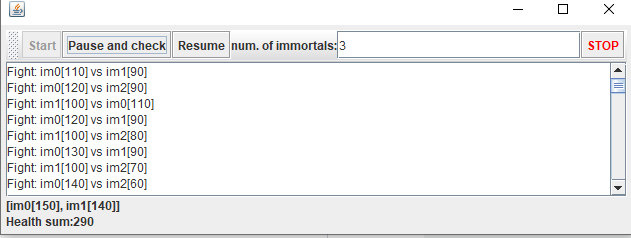
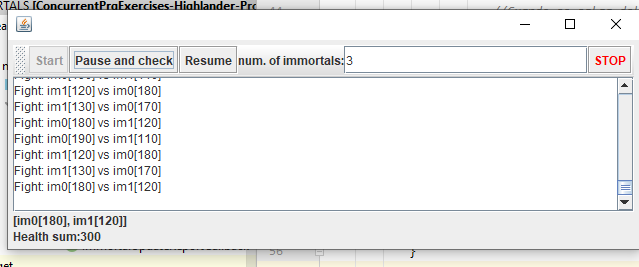
Arreglando inconvenientes

Changed region(s): [[0.0, 0.0, 1.0, 1.0]]

diff --git a/src/main/java/edu/eci/arsw/highlandersim/Immortal.java b/src/main/java/edu/eci/arsw/highlandersim/Immortal.java
@@ -2,12 +2,13 @@ package edu.eci.arsw.highlandersim;
 
 import java.util.List;
 import java.util.Random;
+import java.util.concurrent.atomic.AtomicInteger;
 
 public class Immortal extends Thread {
 
     private ImmortalUpdateReportCallback updateCallback=null;
     
-    private int health;
+    private AtomicInteger health;
     
     private int defaultDamageValue;
 
@@ -16,25 +17,45 @@ public class Immortal extends Thread {
     private final String name;
 
     private final Random r = new Random(System.currentTimeMillis());
-    private boolean pause,active;
+    private boolean pause,active,alive;
     public static final Object tieLock = new Object();
     public static Object pantalla = ControlFrame.pantalla;
-    public static Object desempate = new Object();
+    private static Object desempate = new Object();
 
     public Immortal(String name, List<Immortal> immortalsPopulation, int health, int defaultDamageValue, ImmortalUpdateReportCallback ucb) {
         super(name);
         this.updateCallback=ucb;
         this.name = name;
         this.immortalsPopulation = immortalsPopulation;
-        this.health = health;
+        this.health = new AtomicInteger(health);
         this.defaultDamageValue=defaultDamageValue;
         this.pause=false;
         this.active=true;
+        this.alive=true;
     }
 
     public void run() {
 
         while (active) {
+            try {
+                synchronized (pantalla){
+                    while(pause){
+                        pantalla.wait();
+                        //Cuando se salga del wait, significa que desde el ControlFrame se ejecutó notifyAll y se despertaron los inmortales
+                        renaudarInmortal();
+
+                    }
+                }
+                Thread.sleep(10);
+            } catch (InterruptedException e) {
+                e.printStackTrace();
+            }
+            if (getHealth()<=0){
+                morir();
+                immortalsPopulation.remove(this);
+            }
+            
+
             Immortal im;
 
             int myIndex = immortalsPopulation.indexOf(this);
@@ -49,41 +70,27 @@ public class Immortal extends Thread {
             im = immortalsPopulation.get(nextFighterIndex);
 
             this.fight(im);
-
-            try {
-                if(pause){
-                    synchronized (pantalla){
-                        pantalla.wait();
-                        //Cuando se salga del wait, significa que desde el ControlFrame se ejecutó notifyAll y se despertaron los inmortales
-                        renaudarInmortal();
-
-                    }
-                }
-                Thread.sleep(1);
-            } catch (InterruptedException e) {
-                e.printStackTrace();
-            }
-
         }
 
     }
     public void fight(Immortal i2){
-        int thisHash = System.identityHashCode(this);
-        int i2Hash = System.identityHashCode(i2);
+        long thisId = this.getId();
+        long i2Id = i2.getId();
 
-        if (thisHash < i2Hash) {
+        if (thisId < i2Id) {
             synchronized (this) {
                 synchronized (i2) {
                     this.fight(i2,true);
                 }
             }
-        } else if (thisHash > i2Hash) {
+        }else if(thisId > i2Id) {
             synchronized (i2) {
                 synchronized (this) {
                     this.fight(i2,true);
                 }
             }
-        } else {
+        }
+        else {
             synchronized (desempate) {
                 synchronized (this) {
                     synchronized (i2) {
@@ -95,24 +102,26 @@ public class Immortal extends Thread {
     }
     public void fight(Immortal i2,boolean flag) {
 
-        if (i2.getHealth() > 0) {
+        if (i2.getHealth() > 0 && this.getHealth()>0) {
             i2.changeHealth(i2.getHealth() - defaultDamageValue);
-            this.health += defaultDamageValue;
+            if (i2.getHealth()>=0) {
+                this.health = new AtomicInteger(defaultDamageValue+this.health.get());
+            }
+
             updateCallback.processReport("Fight: " + this + " vs " + i2+"\n");
         } else {
             updateCallback.processReport(this + " says:" + i2 + " is already dead!\n");
-            i2.morir();
-            immortalsPopulation.remove(i2);
+
         }
 
     }
 
     public void changeHealth(int v) {
-        health = v;
+        health = new AtomicInteger(v);
     }
 
     public int getHealth() {
-        return health;
+        return health.get();
     }
 
     @Override
@@ -122,6 +131,7 @@ public class Immortal extends Thread {
     }
     public void morir(){
         this.active=false;
+        this.alive=false;
     }
     public void pausarInmortal(){
         this.pause=true;
@@ -130,3 +140,18 @@ public class Immortal extends Thread {
         this.pause=false;
     }
 }
+
+
+
+
+
+
+
+
+
+
+
+
+
+
+
